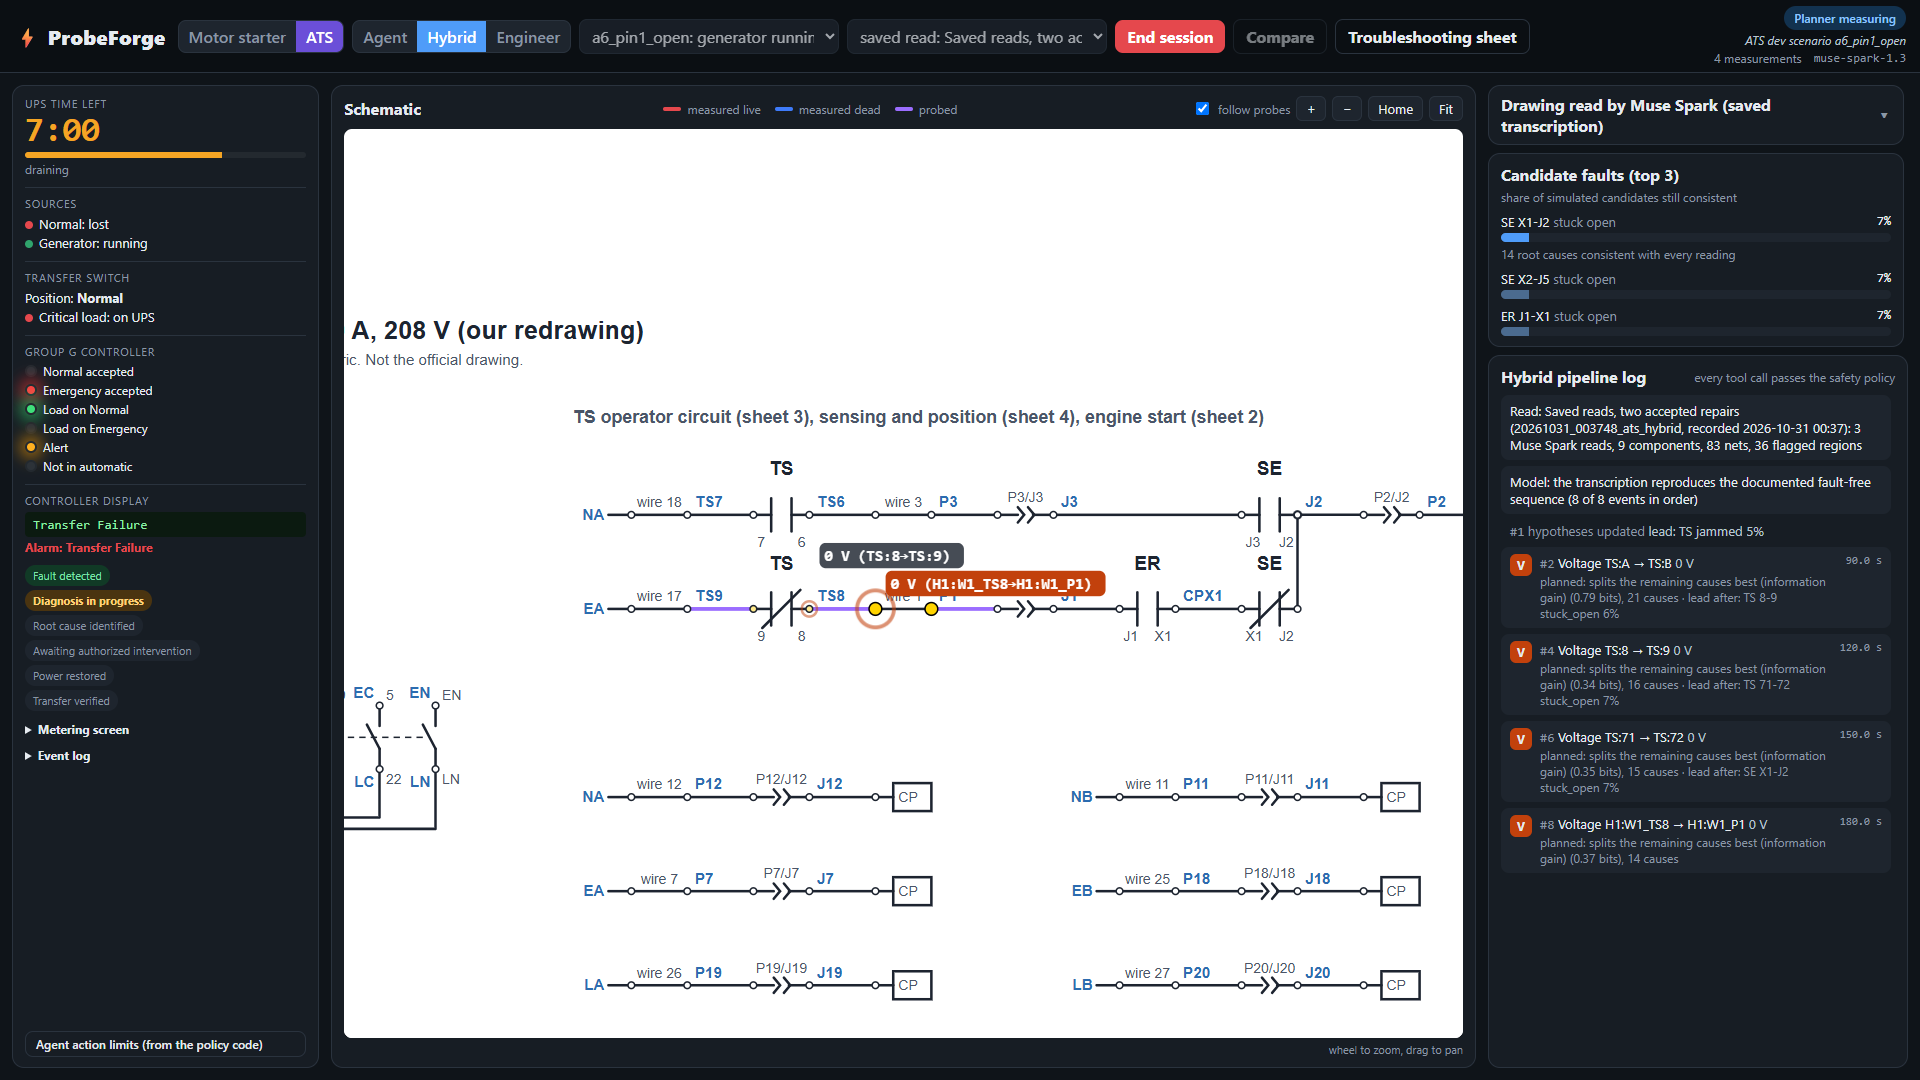
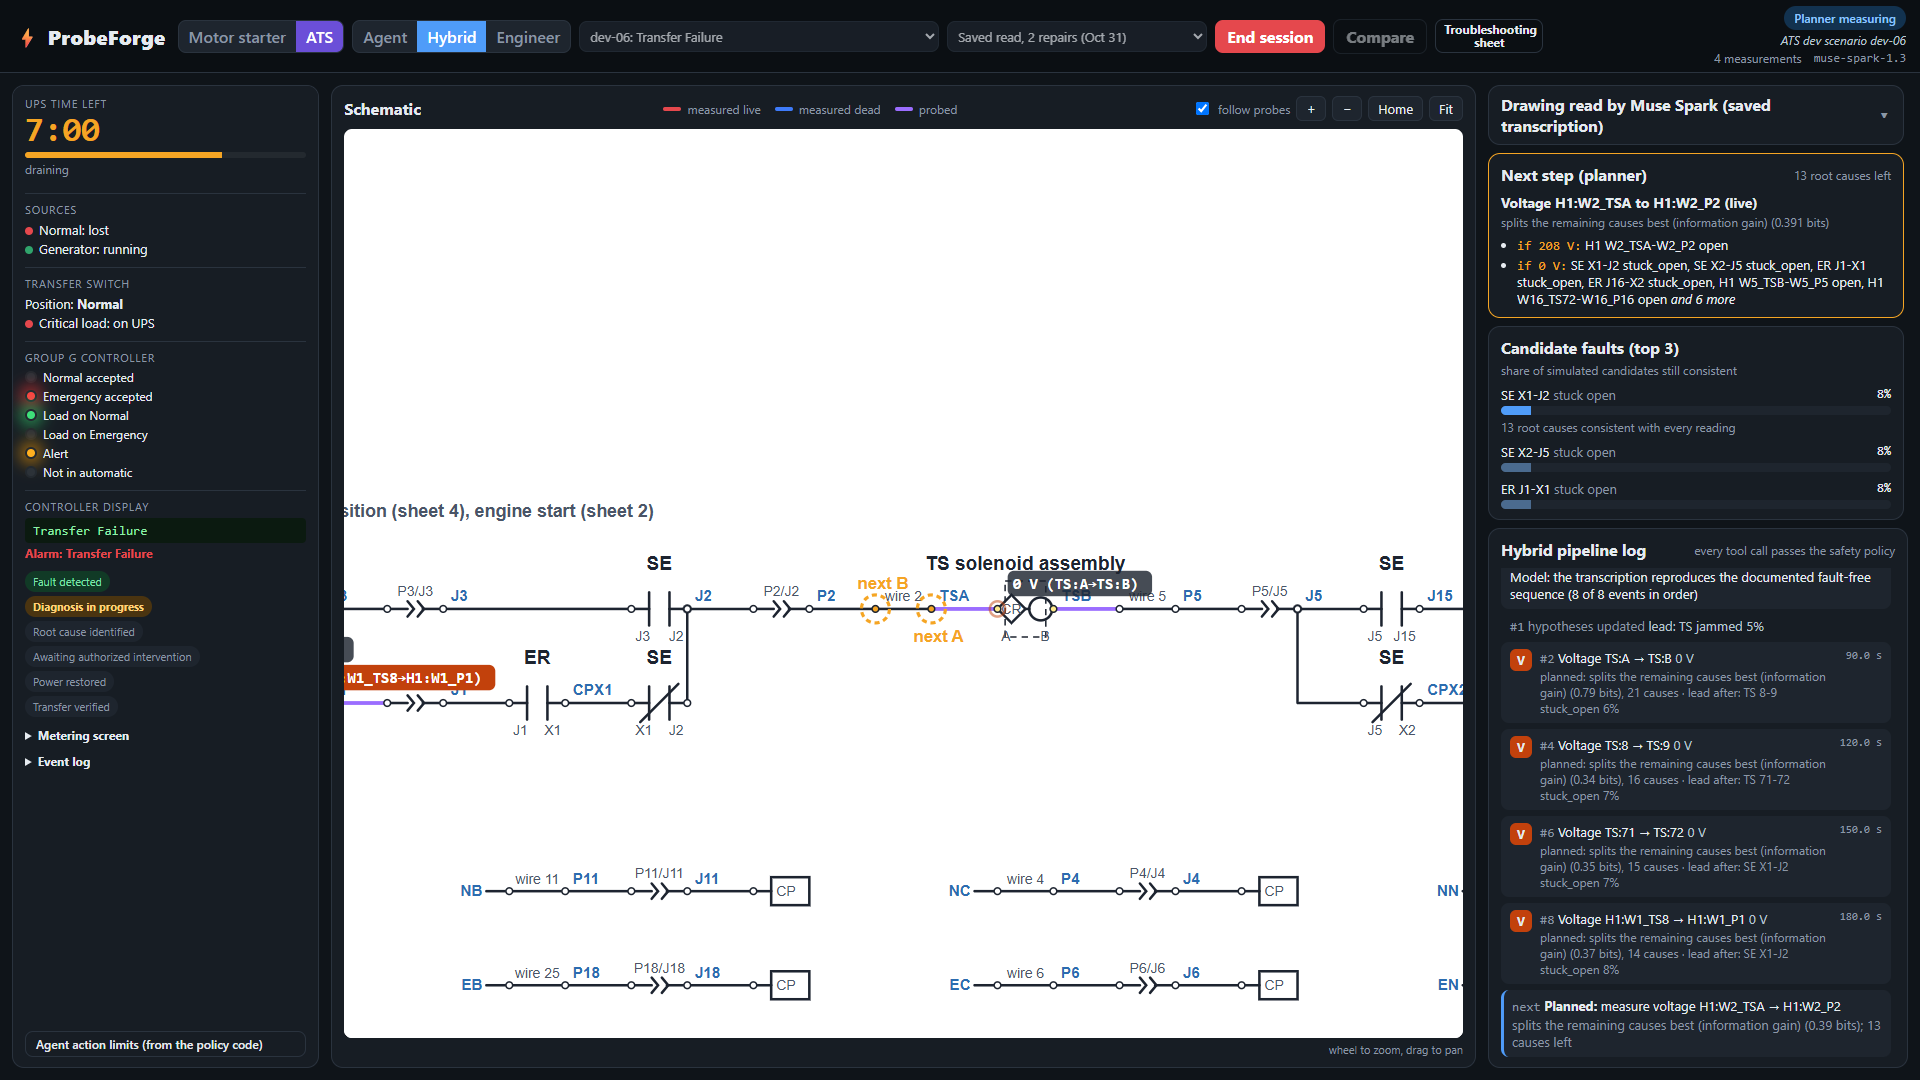
README: screenshots retaken on the current build at 1920x1080 (Hybrid mid-run on dev-06, its result, an Engineer-mode approval card), captions and alt text to match

diff --git a/README.md b/README.md
@@ -8,7 +8,9 @@ finds the root cause, under safety limits enforced in code.**
 Built during the Meta Global AI Developer Hackathon, Oct 26 to Nov 4, 2026 (Indie Developer track). Solo project by
 Eduard Kharaev.
 
-![Hybrid v2 diagnosing a transfer switch fault](docs/screenshots/ats_hybrid_midrun.png)
+![Hybrid v2 mid-run on a transfer switch fault: the next planned reading ringed on the drawing, the candidate faults, the pipeline log and the UPS clock draining](docs/screenshots/ats_hybrid_midrun.png)
+
+*Hybrid v2 mid-run on a saved drawing read: the planner's next reading is ringed on the drawing ("next A", "next B"), the log lists every reading with its policy check, and the UPS clock drains 30 s per reading.*
 
 ## The problem
 
@@ -35,7 +37,9 @@ Every reading or action passes the policy first. Anything risky waits for a huma
 allowed. The UPS clock drains 30 s per reading, and a correct diagnosis after the UPS ran out is shown as what it is:
 critical load lost.
 
-![Result card: verdict, UPS time left at diagnosis, explanation for the technician](docs/screenshots/ats_result.png)
+![Result card after the same run: verdict Correct, the injected fault revealed, UPS time left at diagnosis, Muse Spark's explanation for the technician, and the diagnosed part outlined on the drawing](docs/screenshots/ats_result.png)
+
+*The same run's result: the diagnosed part outlined on the drawing, the injected fault revealed only now, the UPS time left at diagnosis and Muse Spark's explanation for the technician.*
 
 ## Quick start
 
@@ -126,6 +130,10 @@ table is in the UI and in [docs/ATS_MODEL.md](docs/ATS_MODEL.md).
 
 Blocked attempts return to the diagnostician as an error and are counted. In the holdout run the batch approver
 approved the approval tier and denied every strong approval.
+
+![Engineer mode: an approval card for isolating both sources, with the technician's reason and Deny / Approve buttons](docs/screenshots/ats_engineer_approval.png)
+
+*Engineer mode: isolating the sources for an ohmmeter check waits for a human approval, with the reason on the card.*
 
 ## Results
 
